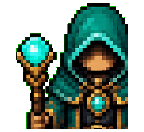
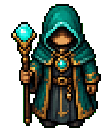
Use full-body dialogue portraits

diff --git a/src/app.js b/src/app.js
@@ -15,10 +15,10 @@ import {
   SCENE_CONFIG,
   DEFAULT_NAMES,
   PLAYER_DIRECTION_Y_OFFSETS,
-} from "./config.js?v=20260610-dialogue2";
-import { loadTextures } from "./assets.js?v=20260610-dialogue2";
-import { SimulationGameAdapter, SomniaContractAdapter } from "./adapters.js?v=20260610-dialogue2";
-import { clamp, formatTime, getClass, getHeroPortrait, normalizeError, shortAddress } from "./utils.js?v=20260610-dialogue2";
+} from "./config.js?v=20260610-dialogue3";
+import { loadTextures } from "./assets.js?v=20260610-dialogue3";
+import { SimulationGameAdapter, SomniaContractAdapter } from "./adapters.js?v=20260610-dialogue3";
+import { clamp, formatTime, getClass, getHeroPortrait, normalizeError, shortAddress } from "./utils.js?v=20260610-dialogue3";
 
 const elements = {
     appShell: document.querySelector("#app-shell"),
@@ -2018,11 +2018,11 @@ const elements = {
     const portraits = {
       "camp-mira": "./public/assets/ui/dialogue-portraits/mira.png",
       "camp-brann": "./public/assets/ui/dialogue-portraits/brann.png",
-      "sogent-gate": "./public/assets/ui/dialogue-portraits/sogent-gate.png?v=20260610-dialogue2",
-      recruiter: "./public/assets/ui/dialogue-portraits/recruiter.png?v=20260610-dialogue2",
+      "sogent-gate": "./public/assets/ui/dialogue-portraits/sogent-gate.png?v=20260610-dialogue3",
+      recruiter: "./public/assets/ui/dialogue-portraits/recruiter.png?v=20260610-dialogue3",
       guildmaster: "./public/assets/ui/dialogue-portraits/guildmaster.png?v=20260604-11",
-      oracle: "./public/assets/ui/dialogue-portraits/oracle.png?v=20260604-2",
-      warden: "./public/assets/ui/dialogue-portraits/warden.png?v=20260610-dialogue2",
+      oracle: "./public/assets/ui/dialogue-portraits/oracle.png?v=20260610-dialogue3",
+      warden: "./public/assets/ui/dialogue-portraits/warden.png?v=20260610-dialogue3",
       blacksmith: "./public/assets/ui/dialogue-portraits/blacksmith.png",
       "arena-master": "./public/assets/ui/dialogue-portraits/arena-master.png",
     };

diff --git a/index.html b/index.html
@@ -5,10 +5,10 @@
     <meta name="viewport" content="width=device-width, initial-scale=1.0" />
     <title>The Gate of Sogents</title>
     <link rel="icon" type="image/png" href="./public/assets/ui/generated/favicon.png?v=20260609-2" />
-    <link rel="stylesheet" href="./styles.css?v=20260610-dialogue2" />
+    <link rel="stylesheet" href="./styles.css?v=20260610-dialogue3" />
     <script src="https://cdn.jsdelivr.net/npm/pixi.js@8.18.1/dist/pixi.min.js"></script>
     <script src="https://cdn.jsdelivr.net/npm/ethers@6.16.0/dist/ethers.umd.min.js"></script>
-    <script type="module" src="./src/app.js?v=20260610-dialogue2"></script>
+    <script type="module" src="./src/app.js?v=20260610-dialogue3"></script>
   </head>
   <body>
     <main id="app-shell" class="app-shell">

diff --git a/src/adapters.js b/src/adapters.js
@@ -6,7 +6,7 @@ import {
   SOMNIA_CHAIN_ID_HEX,
   SOMNIA_RPC_URL,
   WEAPON_SHARD_COST,
-} from "./config.js?v=20260610-dialogue2";
+} from "./config.js?v=20260610-dialogue3";
 import {
   fromContractPrice,
   getClass,
@@ -17,7 +17,7 @@ import {
   shortAddress,
   toContractInt,
   traitFromSeed,
-} from "./utils.js?v=20260610-dialogue2";
+} from "./utils.js?v=20260610-dialogue3";
 
 export function SimulationGameAdapter() {
     this.nextHeroId = 1;

diff --git a/src/assets.js b/src/assets.js
@@ -12,8 +12,8 @@ import {
   PLAYER_DIRECTIONS,
   NPC_SHEET_IDS,
   STANDALONE_NPC_ASSETS,
-} from "./config.js?v=20260610-dialogue2";
-import { normalizeError } from "./utils.js?v=20260610-dialogue2";
+} from "./config.js?v=20260610-dialogue3";
+import { normalizeError } from "./utils.js?v=20260610-dialogue3";
 
 export async function loadTextures({ addEvent } = {}) {
     const result = {

diff --git a/src/utils.js b/src/utils.js
@@ -1,4 +1,4 @@
-import { CLASS_DEFS, FNV_OFFSET, FNV_PRIME, HERO_PORTRAITS, MASK_64 } from "./config.js?v=20260610-dialogue2";
+import { CLASS_DEFS, FNV_OFFSET, FNV_PRIME, HERO_PORTRAITS, MASK_64 } from "./config.js?v=20260610-dialogue3";
 
 export function getClass(classId) {
     return CLASS_DEFS.find((item) => item.id === classId) || CLASS_DEFS[0];